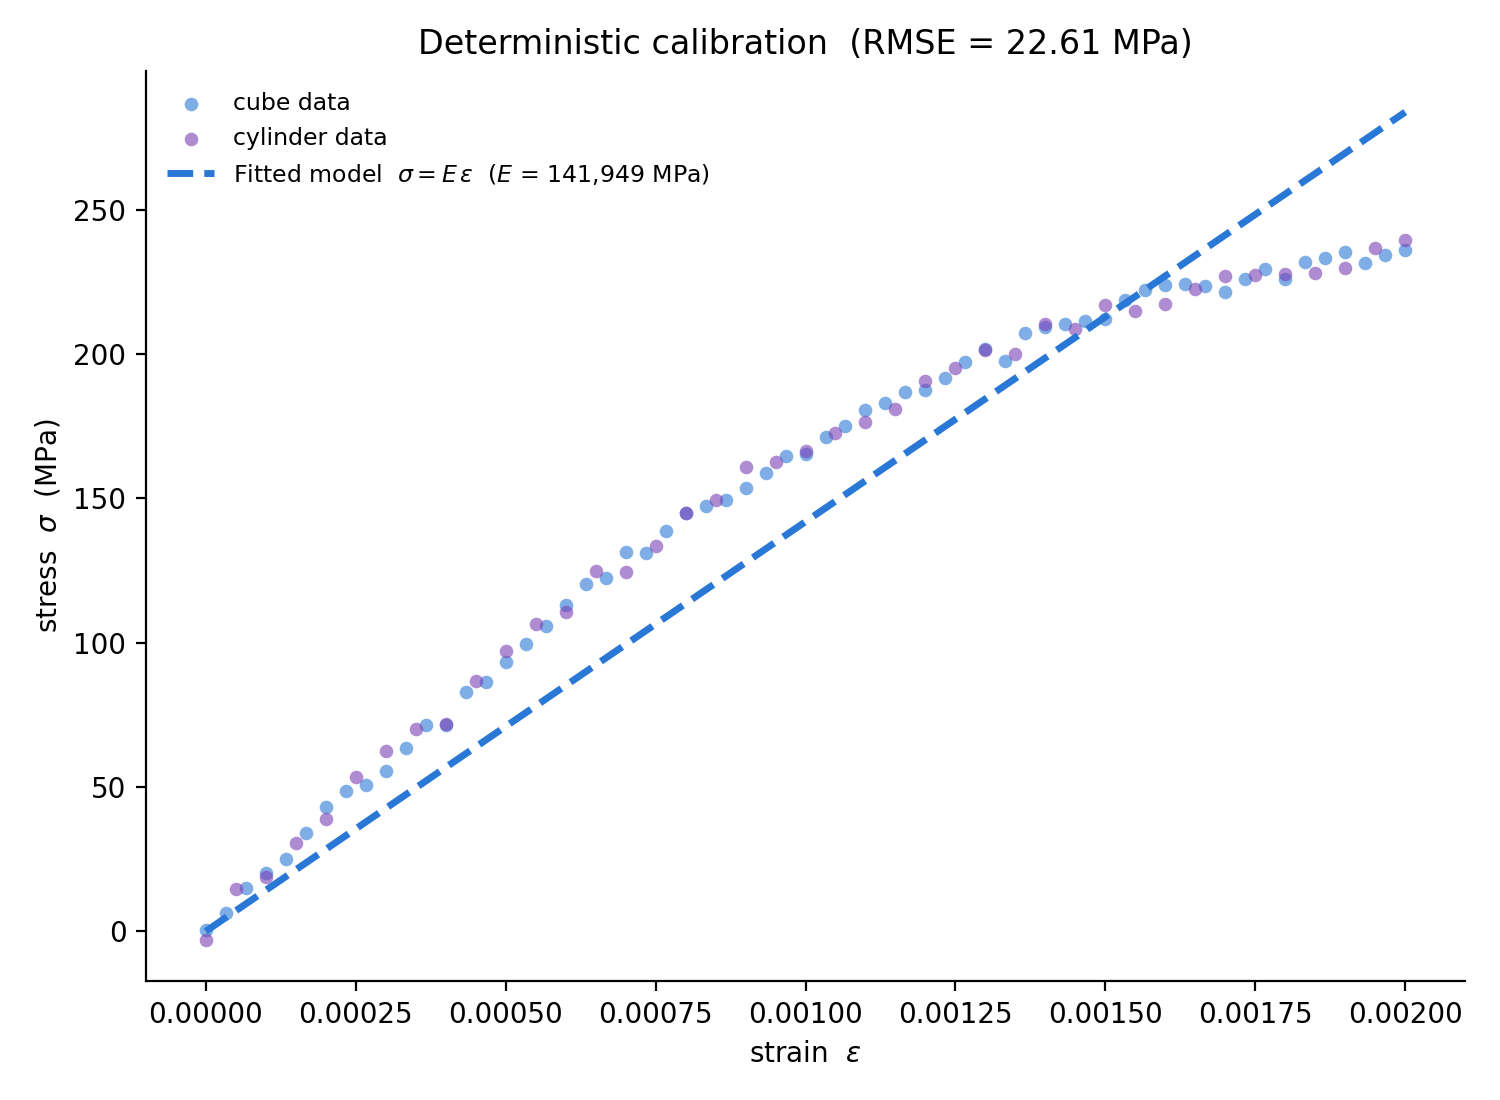
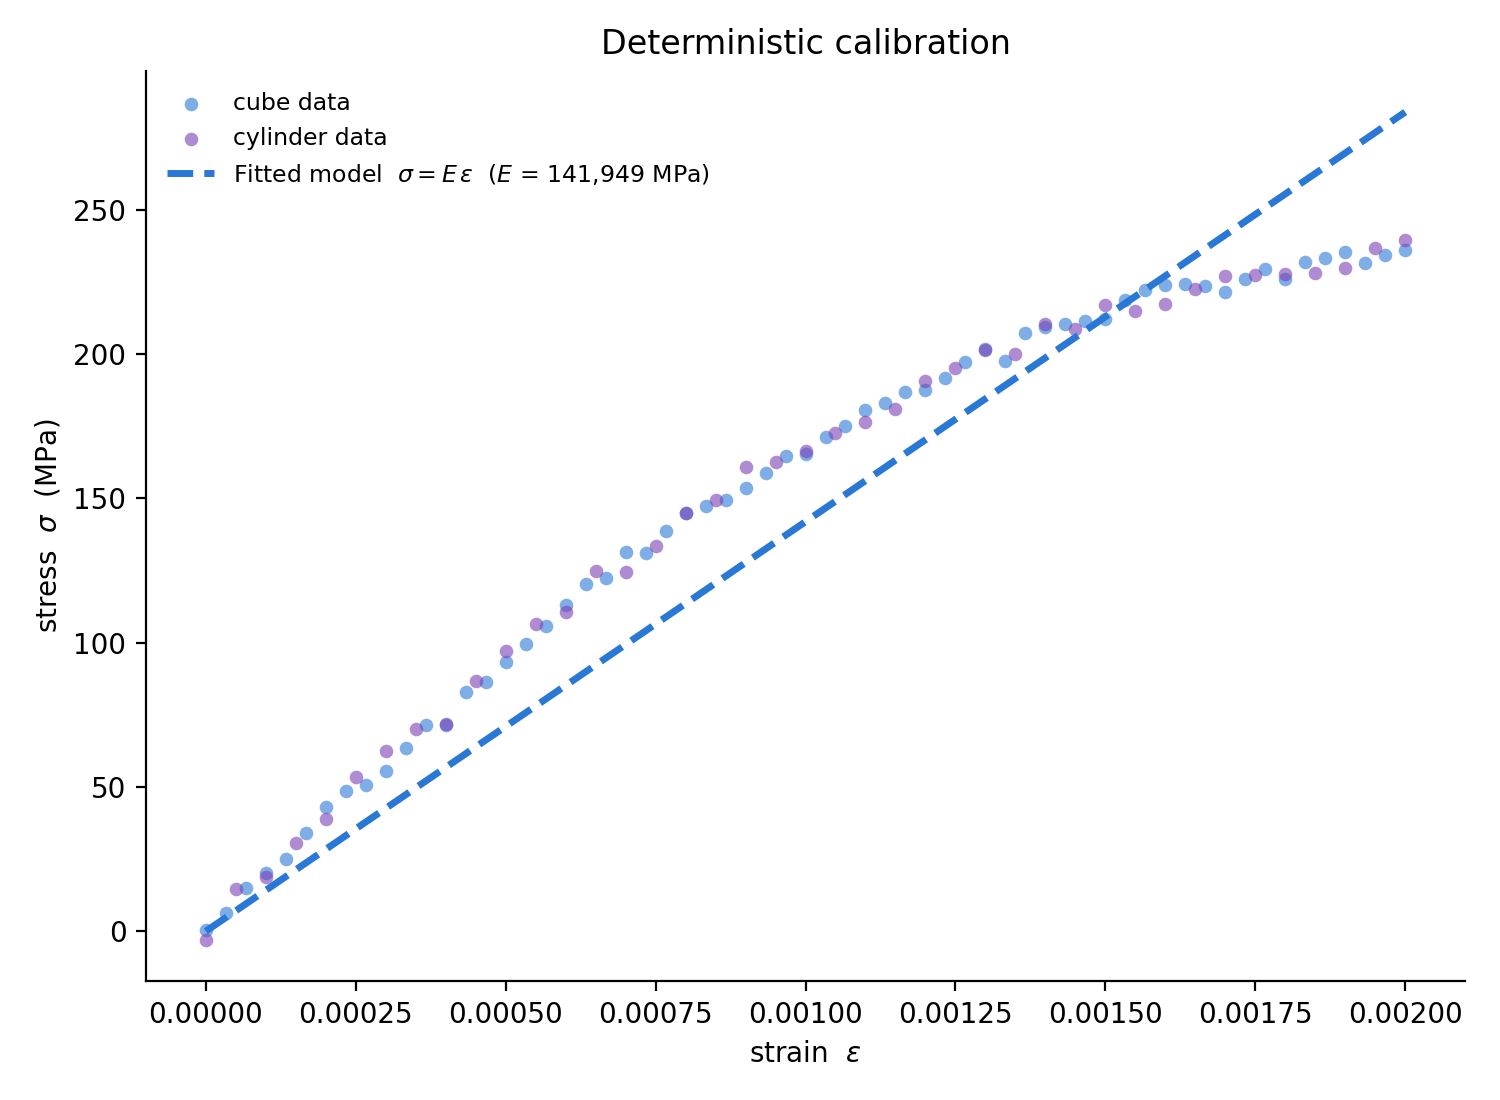
updated deterministic setup outputs, github workflows added

Changed region(s): [[0.276, 0.0309, 0.7973, 0.0618]]

diff --git a/post_processing/deterministic/tanh_specimen_postprocess.py b/post_processing/deterministic/tanh_specimen_postprocess.py
@@ -3,22 +3,22 @@ Post-process the deterministic tanh-specimen calibration.
 
 Reads the fitted modulus written by
 inverse_problem/deterministic/tanh_specimen_calibration.py
-(output/tanh_specimen_calibration.csv) plus the observation CSVs, and draws a
+(output/tanh_specimen_calibration.json) plus the observation CSVs, and draws a
 single figure overlaying
 
     * the measured stress--strain points (per specimen), and
-    * the fitted linear model response  sigma = E_hat * eps
+    * the fitted linear model response  sigma = E_optimised * eps
 
     figure
       output/tanh_specimen_calibration.png
 
-Nothing is re-fitted here; E_hat comes straight from the CSV.
+Nothing is re-fitted here; E_optimised comes straight from the JSON.
 
 Run with the `embedded_bias_inference` conda env.
 """
 
 import argparse
-import csv
+import json
 import os
 import sys
 
@@ -37,7 +37,7 @@ DEFAULT_DATA_DIR = os.path.join(ROOT, "data_processing", "output")
 DEFAULT_META_DIR = os.path.join(ROOT, "data", "output")  # DGP metadata (single copy)
 DEFAULT_RESULT_DIR = os.path.join(ROOT, "inverse_problem", "deterministic", "output")
 DEFAULT_OUTPUT_DIR = os.path.join(SCRIPT_DIR, "output")
-RESULT_CSV = "tanh_specimen_calibration.csv"
+RESULT_JSON = "tanh_specimen_calibration.json"
 FIG_FILE = "tanh_specimen_calibration.png"
 
 N_GRID = 400
@@ -47,29 +47,17 @@ SPECIMEN_COLOR = {"cube": "#2a78d6", "cylinder": "#7a3fb5"}
 
 
 def load_result(result_dir):
-    """Read the one-row deterministic-fit CSV into a dict of parsed scalars."""
-    path = os.path.join(result_dir, RESULT_CSV)
+    """Read the deterministic-fit JSON into a dict of scalars."""
+    path = os.path.join(result_dir, RESULT_JSON)
     if not os.path.exists(path):
         raise FileNotFoundError(
             f"{path} not found -- run deterministic/tanh_specimen_calibration.py first"
         )
-    with open(path, newline="") as fh:
-        header, values = list(csv.reader(fh))[:2]
-
-    def parse(v):
-        try:
-            return int(v)
-        except ValueError:
-            pass
-        try:
-            return float(v)
-        except ValueError:
-            return {"True": True, "False": False}.get(v, v)
-
-    return {k: parse(v) for k, v in zip(header, values)}
+    with open(path) as fh:
+        return json.load(fh)
 
 
-def plot_fit(path, eps, sigma_obs, specimen, eps_grid, sigma_model, E_hat, rmse):
+def plot_fit(path, eps, sigma_obs, specimen, eps_grid, sigma_model, E_optimised):
     fig, ax = plt.subplots(figsize=(7.5, 5.5))
     for name in ("cube", "cylinder"):
         m = specimen == name
@@ -80,11 +68,11 @@ def plot_fit(path, eps, sigma_obs, specimen, eps_grid, sigma_model, E_hat, rmse)
             )
     ax.plot(
         eps_grid, sigma_model, color=BLUE, lw=2.5, ls="--",
-        label=rf"Fitted model  $\sigma = E\,\varepsilon$  ($E$ = {E_hat:,.0f} MPa)",
+        label=rf"Fitted model  $\sigma = E\,\varepsilon$  ($E$ = {E_optimised:,.0f} MPa)",
     )
     ax.set_xlabel(r"strain  $\varepsilon$")
     ax.set_ylabel(r"stress  $\sigma$  (MPa)")
-    ax.set_title(f"Deterministic calibration  (RMSE = {rmse:.2f} MPa)")
+    ax.set_title("Deterministic calibration")
     ax.legend(frameon=False, loc="upper left", fontsize=8.5)
     for spine in ("top", "right"):
         ax.spines[spine].set_visible(False)
@@ -102,19 +90,19 @@ def main():
     args = parser.parse_args()
 
     result = load_result(args.result_dir)
-    E_hat = result["E_hat"]
+    E_optimised = result["E_optimised"]
     data = load_data(args.data_dir, args.meta_dir)
 
     eps_grid = np.linspace(0.0, float(data.eps.max()), N_GRID)
-    sigma_model = E_hat * eps_grid
+    sigma_model = E_optimised * eps_grid
 
     os.makedirs(args.output_dir, exist_ok=True)
     fig_path = os.path.join(args.output_dir, FIG_FILE)
     plot_fit(
         fig_path, data.eps, data.sigma_obs, data.specimen,
-        eps_grid, sigma_model, E_hat, result["rmse_MPa"],
+        eps_grid, sigma_model, E_optimised,
     )
-    print(f"E_hat = {E_hat:,.3f} MPa  (RMSE = {result['rmse_MPa']:.3f} MPa)")
+    print(f"E_optimised = {E_optimised:,.3f} MPa")
     print(f"Wrote {fig_path}")
 
 

diff --git a/inverse_problem/deterministic/tanh_specimen_calibration.py b/inverse_problem/deterministic/tanh_specimen_calibration.py
@@ -17,17 +17,17 @@ known observation variance folded in by load_data, matching the noise model used
 by the Bayesian script) and w_i = 1 otherwise. J is quadratic in E, so the
 unconstrained minimiser is closed-form,
 
-    E_hat_unc = sum_i w_i eps_i sigma_obs,i / sum_i w_i eps_i ** 2
+    E_optimised_unc = sum_i w_i eps_i sigma_obs,i / sum_i w_i eps_i ** 2
 
 and the constrained answer is that value clipped to the box (also verified with
-a bounded 1-D optimiser). Results are written as JSON + a one-row CSV to this
-stage's output/ directory; there is no chain and no posterior.
+a bounded 1-D optimiser). The fitted modulus is written as JSON
+(``{"E_optimised": ...}``) to this stage's output/ directory; there is no chain
+and no posterior.
 
 Run with the `embedded_bias_inference` conda env.
 """
 
 import argparse
-import csv
 import json
 import os
 import sys
@@ -45,7 +45,6 @@ DEFAULT_DATA_DIR = os.path.join(ROOT, "data_processing", "output")
 DEFAULT_META_DIR = os.path.join(ROOT, "data", "output")  # DGP metadata (single copy)
 DEFAULT_RESULT_DIR = os.path.join(SCRIPT_DIR, "output")
 RESULT_FILE = "tanh_specimen_calibration.json"
-RESULT_CSV = "tanh_specimen_calibration.csv"
 
 
 def load_det_config(path):
@@ -75,7 +74,7 @@ def misfit(E, eps, sigma_obs, w):
 
 
 def fit_E(eps, sigma_obs, w, bounds):
-    """Minimise the misfit over E in `bounds`; return (E_hat, diagnostics)."""
+    """Minimise the misfit over E in `bounds`; return (E_optimised, diagnostics)."""
     lo, hi = bounds
 
     # J(E) is quadratic in E -> closed-form unconstrained minimiser.
@@ -115,39 +114,18 @@ def main():
     weighted = cfg["objective"]["weighted"]
     w = 1.0 / data.svar if weighted else np.ones_like(data.svar)
 
-    E_hat, diag = fit_E(data.eps, data.sigma_obs, w, bounds)
+    E_optimised, _ = fit_E(data.eps, data.sigma_obs, w, bounds)
 
-    n = data.eps.size
-    resid = data.sigma_obs - E_hat * data.eps
-    result = {
-        "parameter": cfg["parameter"]["name"],
-        "E_hat": E_hat,
-        "bounds": list(bounds),
-        "weighted": weighted,
-        "n_obs": int(n),
-        "objective_value": misfit(E_hat, data.eps, data.sigma_obs, w),
-        "rmse_MPa": float(np.sqrt(np.mean(resid**2))),
-        "max_abs_resid_MPa": float(np.max(np.abs(resid))),
-        **diag,
-    }
+    result = {"E_optimised": E_optimised}
 
     out_path = os.path.join(args.result_dir, RESULT_FILE)
     with open(out_path, "w") as fh:
         json.dump(result, fh, indent=2)
         fh.write("\n")
 
-    # Same scalars as a one-row CSV (a header row + a values row) so the
-    # post-processing plot can load the fitted E without touching the JSON.
-    csv_path = os.path.join(args.result_dir, RESULT_CSV)
-    with open(csv_path, "w", newline="") as fh:
-        w = csv.writer(fh)
-        w.writerow(result.keys())
-        w.writerow(result.values())
-
     for k, v in result.items():
         print(f"{k:>20}: {v}")
     print(f"Wrote {out_path}")
-    print(f"Wrote {csv_path}")
 
 
 if __name__ == "__main__":
